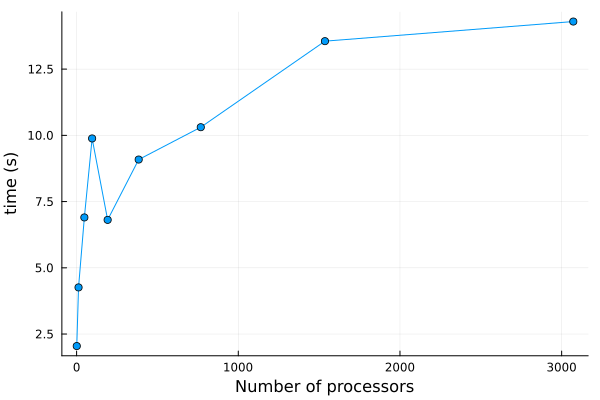
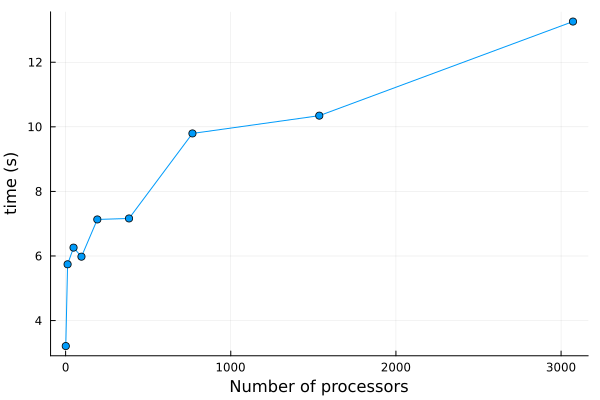
First finished draft on the paper

diff --git a/joss_paper/paper.md b/joss_paper/paper.md
@@ -39,7 +39,7 @@ The implementation of exact factorization-based solvers in parallel environments
 Hence the use of iterative methods is crucial to maintain scalability of FE codes. Unfortunately, the convergence of iterative methods is not guaranteed and rapidly deteriorates as the size of the linear system increases. To retain performance, the use of highly scalable preconditioners is mandatory.
 For simple problems, algebraic solvers and preconditioners (i.e based uniquelly on the algebraic system) are enough to obtain robust convergence. Many well-known libraries providing algebraic solvers already exist, such as PETSc [@petsc-user-ref], Trilinos [@trilinos], or Hypre [@hypre]. However, algebraic solvers are not always suited to deal with more challenging problems.
 
-In these cases, solvers that exploit the geometry and physics of the particular problem are required. This is the case of many multiphysics problems involving differential operators with a large kernel such as the divergence [@arnold1] and the curl [@arnold2]. Examples of this are highly relevant problems such as Navier-Stokes, Maxwell or Darcy. Scalable solvers for this type of multiphysics problems rely on exploiting the block structure of such systems to find a spectrally equivalent block-preconditioner, and are often tied to specific discretizations of the underlying equations.
+In these cases, solvers that exploit the geometry and physics of the particular problem are required. This is the case of many multiphysics problems involving differential operators with a large kernel such as the divergence [@Arnold1] and the curl [@Arnold2]. Examples of this are highly relevant problems such as Navier-Stokes, Maxwell or Darcy. Scalable solvers for this type of multiphysics problems rely on exploiting the block structure of such systems to find a spectrally equivalent block-preconditioner, and are often tied to specific discretizations of the underlying equations.
 To this end, GridapSolvers is a registered Julia [@Bezanson2017] software package which provides highly scalable geometric solvers tailored for the FE numerical solution of PDEs on parallel computers. Emphasis is put on the modular design of the library, which easily allows new preconditioners to be designed from the user's specific problem.
 
 ## Building blocks and composability
@@ -104,8 +104,8 @@ function get_bilinear_form(mh_lev,biform,qdegree)
 end
 
 function add_labels!(labels)
-  add_tag_from_tags!(labels,"top",[3,4,6])
-  add_tag_from_tags!(labels,"bottom",[1,2,5])
+  add_tag_from_tags!(labels,"top",[6])
+  add_tag_from_tags!(labels,"walls",[1,2,3,4,5,7,8])
 end
 
 np = (2,2)
@@ -125,10 +125,10 @@ with_mpi() do distribute
   reffe_u = ReferenceFE(lagrangian,VectorValue{2,Float64},fe_order)
   reffe_p = ReferenceFE(lagrangian,Float64,fe_order-1;space=:P)
 
-  tests_u  = TestFESpace(mh,reffe_u,dirichlet_tags=["bottom","top"])
+  tests_u  = TestFESpace(mh,reffe_u,dirichlet_tags=["walls","top"])
   trials_u = TrialFESpace(tests_u,[VectorValue(0.0,0.0),VectorValue(1.0,0.0)])
   U, V = get_fe_space(trials_u,1), get_fe_space(tests_u,1)
-  Q = TestFESpace(model,reffe_p;conformity=:L2) 
+  Q = TestFESpace(model,reffe_p;conformity=:L2,constraint=:zeromean) 
 
   mfs = Gridap.MultiField.BlockMultiFieldStyle()
   X = MultiFieldFESpace([U,Q];style=mfs)
@@ -162,7 +162,7 @@ with_mpi() do distribute
     pre_smoothers=smoothers,
     post_smoothers=smoothers,
     coarsest_solver=LUSolver(),
-    maxiter=2,mode=:preconditioner
+    maxiter=2,mode=:solver
   )
 
   # PCG solver for the pressure block
@@ -179,13 +179,13 @@ with_mpi() do distribute
   fill!(x,0.0)
   solve!(x,ns,b)
   uh, ph = FEFunction(X,x)
-  writevtk(Ω,"joss_paper/demo",cellfields=["uh"=>uh,"ph"=>ph])
+  writevtk(Ω,"demo",cellfields=["uh"=>uh,"ph"=>ph])
 end
 ```
 
 ## Parallel scaling benchmark
 
-The following section shows scalability results for the demo problem discussed above. We run our code on the Gadi supercomputer, which is part of the Australian National Computational Infrastructure. We use Intel's Cascade Lake 2x24-core Xeon Platinum 8274 nodes. Scalability is shown for up to 64 nodes, for a fixed local problem size of 48x64 quadrangle cells per processor. This amounts to a maximum size of 37M cells and 415M degrees of freedom distributed amongst 3072 processors. The code used to create these results can be found together with the submited paper (LINK).
+The following section shows scalability results for the demo problem discussed above. We run our code on the Gadi supercomputer, which is part of the Australian National Computational Infrastructure. We use Intel's Cascade Lake 2x24-core Xeon Platinum 8274 nodes. Scalability is shown for up to 64 nodes, for a fixed local problem size of 48x64 quadrangle cells per processor. This amounts to a maximum size of approximately 37M cells and 415M degrees of freedom distributed amongst 3072 processors. The code used to create these results can be found together with the submitted paper.
 
 ![Weak scalability for a Stokes problem in 2D. Time is given per Conjugate Gradient iteration, as a function of the number of processors. \label{fig:packages}](weakScalability.png){ width=60% }
 
